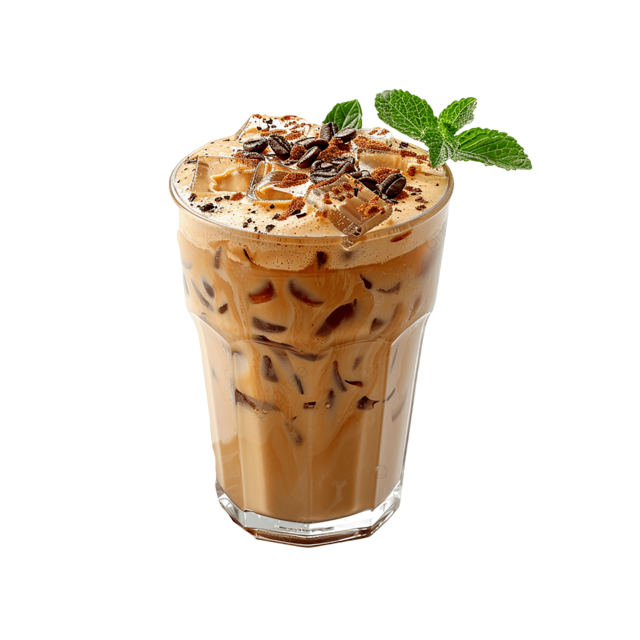
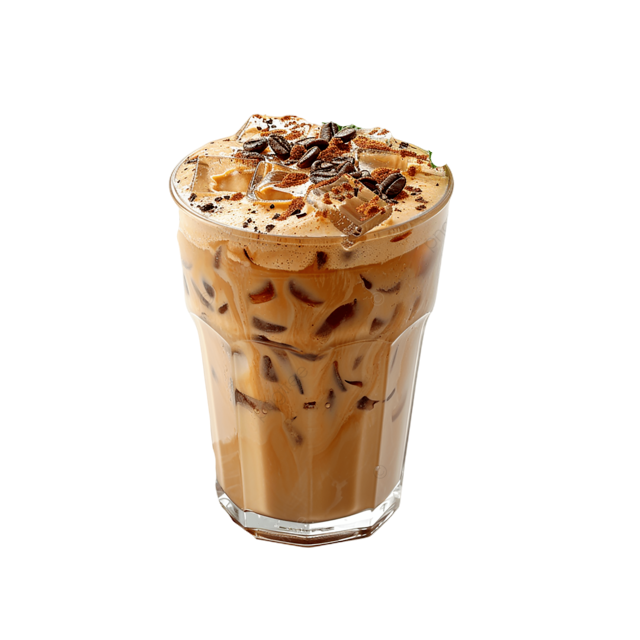
add cacao add carousel

Changed region(s): [[0.5, 0.125, 0.8438, 0.2812]]

diff --git a/menu.html b/menu.html
@@ -159,7 +159,7 @@
 
         /* Hero Section */
         .hero {
-            height: 100vh;
+            height: 85vh;
             background-image: url('banner.jpg');
             background-size: cover;
             background-position: center;
@@ -838,7 +838,7 @@
                 <h2>Coffee</h2>
                 <div class="menu-grid">
                     <div class="menu-card">
-                        <img src="capheden.jpg"
+                        <img src="capheden.png"
                              onerror="this.src='logo.png'"
                              alt="Vietnamese Iced Coffee">
                         <h3>Caphe Đen</h3>
@@ -855,7 +855,7 @@
                         </div>
                     </div>
                     <div class="menu-card">
-                        <img src="caphesua.jpg"
+                        <img src="caphesua.png"
                              onerror="this.src='logo.png'"
                              alt="Vietnamese Iced Coffee">
                         <h3>Caphe sữa</h3>
@@ -868,6 +868,23 @@
                             <div class="size-price">
                                 <span class="size">L</span>
                                 <span class="price">25</span>
+                            </div>
+                        </div>
+                    </div>
+                    <div class="menu-card">
+                        <img src="caphesuatuoi.jpg"
+                             onerror="this.src='logo.png'"
+                             alt="Vietnamese Iced Coffee">
+                        <h3>Caphe latte</h3>
+                        <p>1 shot espresso cùng với sữa tươi nguyên chất.</p>
+                        <div class="size-prices">
+                            <div class="size-price">
+                                <span class="size">M</span>
+                                <span class="price">24</span>
+                            </div>
+                            <div class="size-price">
+                                <span class="size">L</span>
+                                <span class="price">28</span>
                             </div>
                         </div>
                     </div>
@@ -963,7 +980,7 @@
                         </div>
                     </div>
                     <div class="menu-card">
-                        <img src="https://caphe4.flatsome.vn/wp-content/uploads/2023/11/TRA-DAU-TAY-OI-HONG.png"
+                        <img src="traoihong.png"
                              onerror="this.src='logo.png'"
                              alt="Guava Tea">
                         <h3>Trà ổi hồng</h3>
